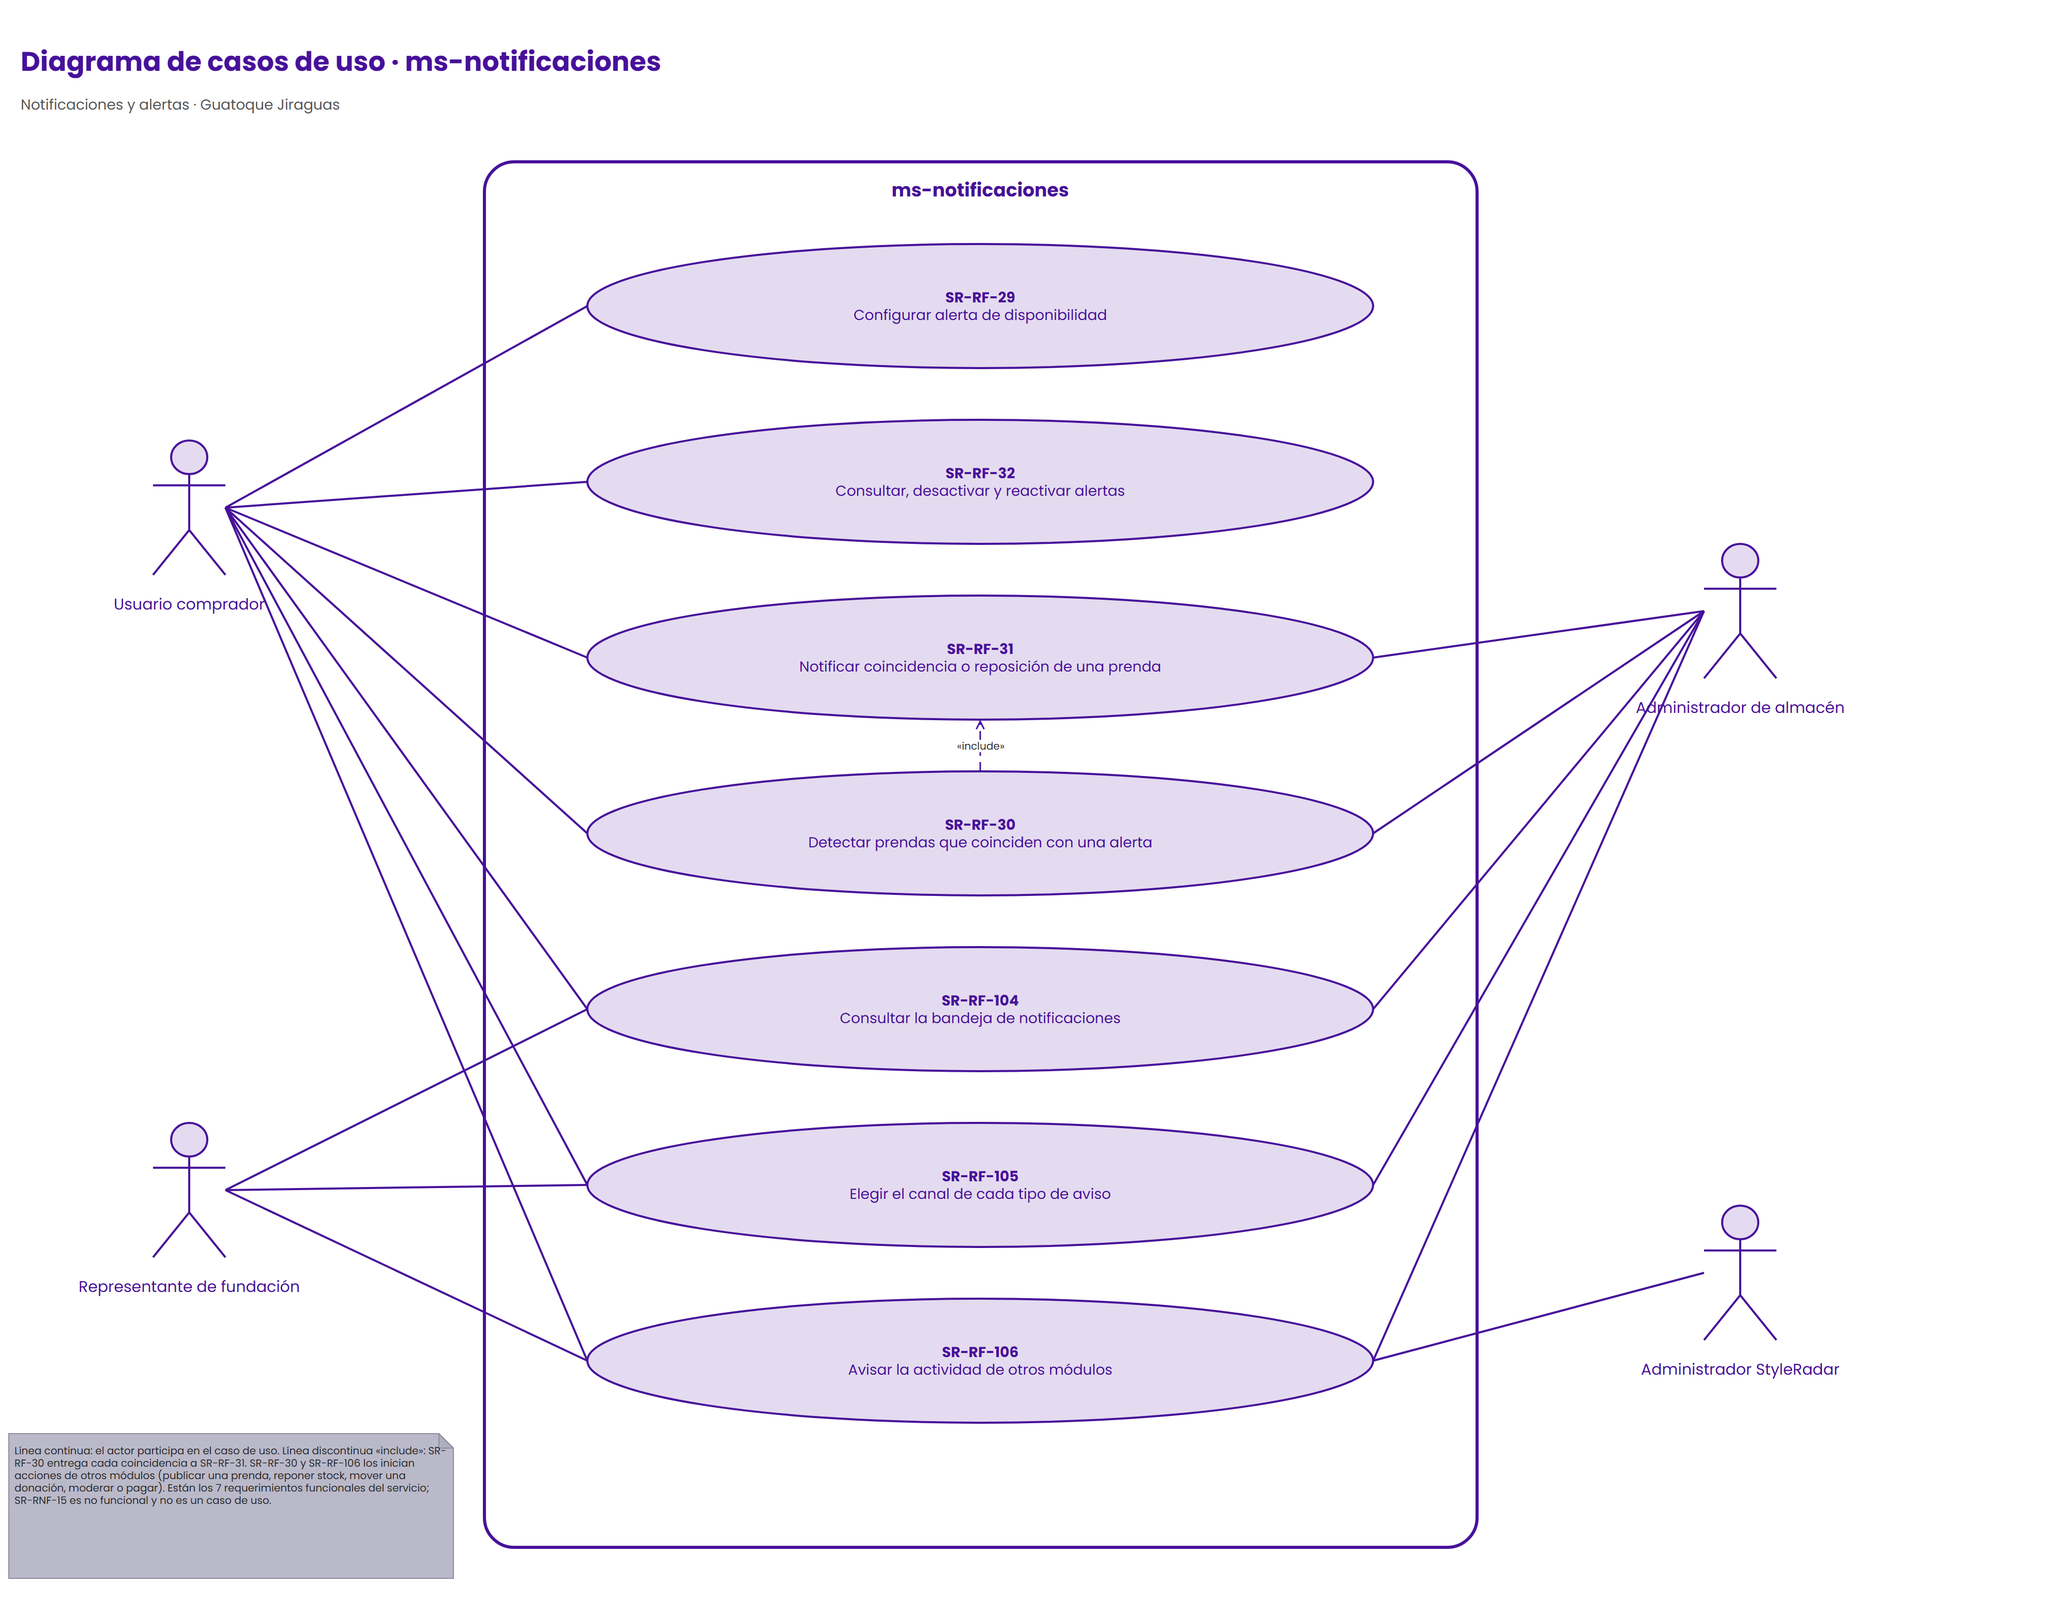
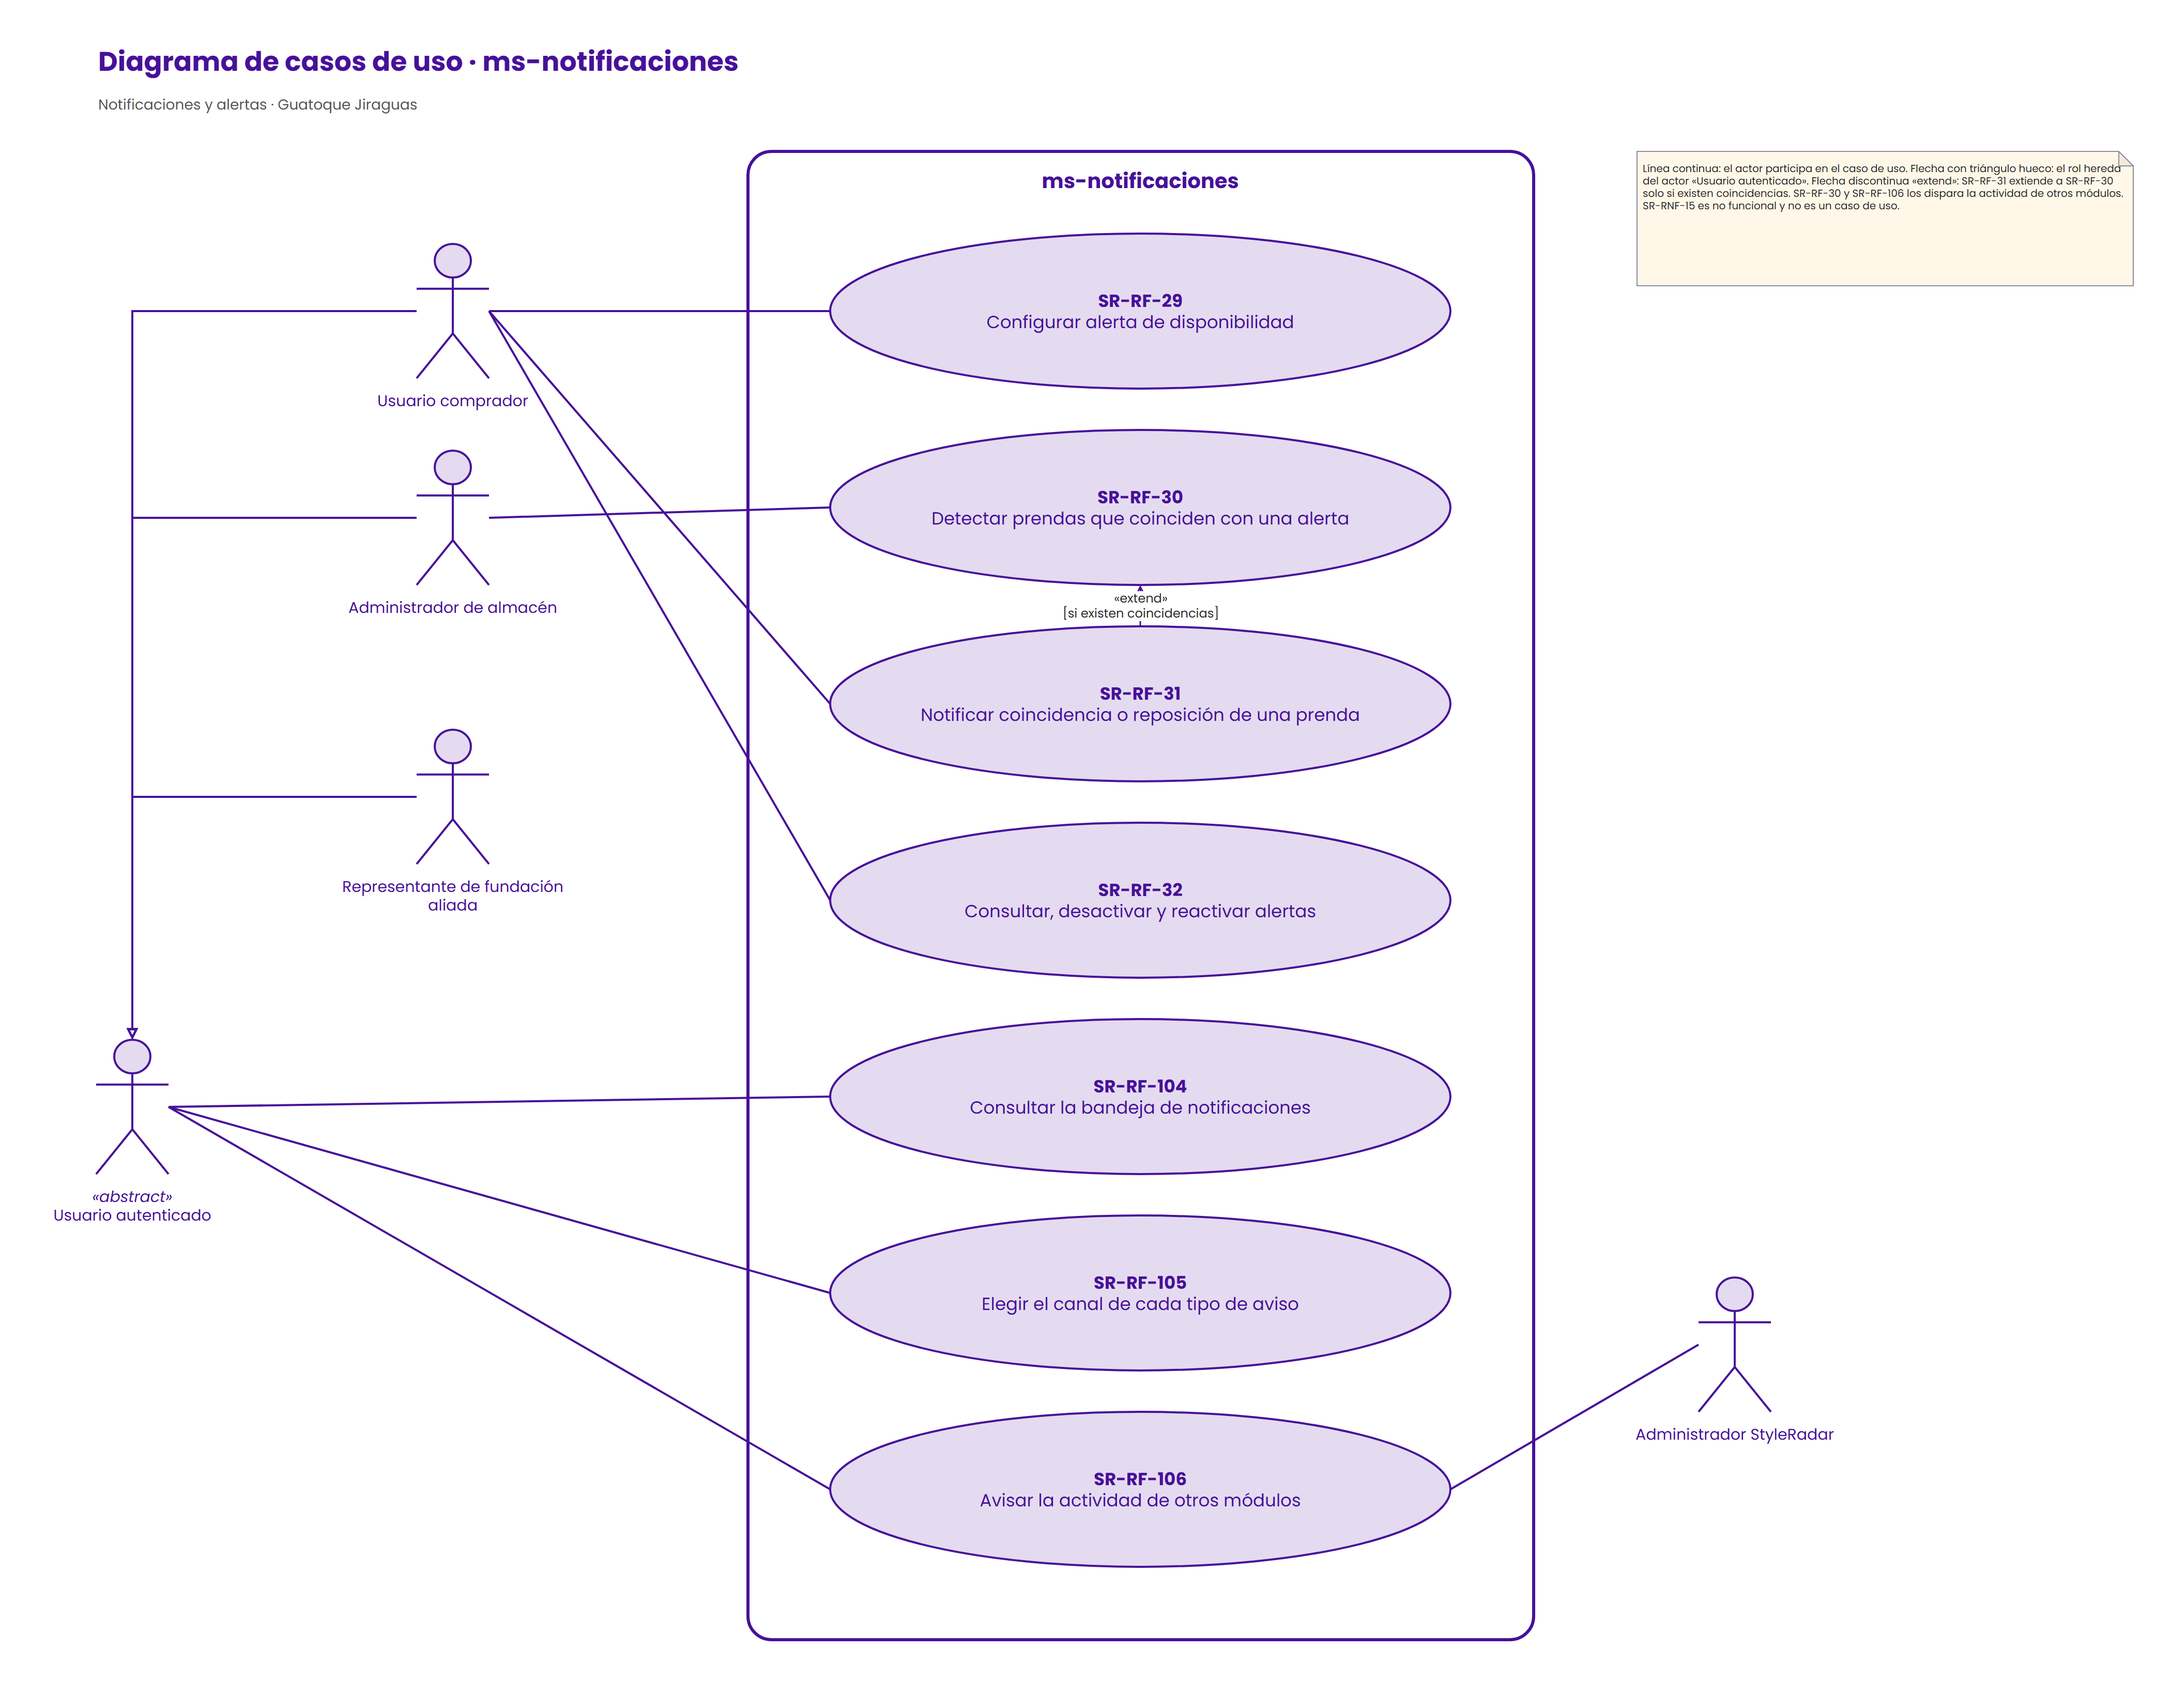
docs(diagramas): casos de uso con extend, actor abstracto y mejor lectura
SR-RF-31 extiende a SR-RF-30 solo si existen coincidencias; el usuario autenticado generaliza a los roles de SR-RF-104, 105 y 106; se quitan las lineas redundantes y los actores principales pasan a la izquierda.

diff --git a/docs/DIAGRAMAS_NOT20.md b/docs/DIAGRAMAS_NOT20.md
@@ -307,19 +307,19 @@ El diagrama muestra el backend completo de StyleRadar dentro de un recuadro punt
 
 ### 9.1. Explicación técnica
 
-Hay un diagrama de casos de uso por microservicio y este contiene todos los requerimientos funcionales de `ms-notificaciones`. El borde redondeado es el sistema, cada óvalo es un requerimiento (código y nombre) y las líneas unen cada caso de uso con los actores que participan.
+Hay un diagrama de casos de uso por microservicio y este contiene todos los requerimientos funcionales de `ms-notificaciones`. El borde redondeado es el sistema, cada óvalo es un requerimiento (código y nombre) y las líneas unen cada caso de uso con los actores que participan. Los actores principales van a la izquierda y el administrador StyleRadar, que origina eventos de moderación, a la derecha.
 
 | Requerimiento | Caso de uso | Actores |
 | :--- | :--- | :--- |
 | SR-RF-29 | Configurar alerta de disponibilidad | Usuario comprador |
-| SR-RF-30 | Detectar prendas que coinciden con una alerta | Administrador de almacén (lo inicia al publicar o reponer); usuario comprador (dueño de las alertas) |
-| SR-RF-31 | Notificar coincidencia o reposición de una prenda | Usuario comprador; administrador de almacén (vía SR-RF-30) |
+| SR-RF-30 | Detectar prendas que coinciden con una alerta | Administrador de almacén (lo inicia al publicar o reponer) |
+| SR-RF-31 | Notificar coincidencia o reposición de una prenda | Usuario comprador (extiende a SR-RF-30 si existen coincidencias) |
 | SR-RF-32 | Consultar, desactivar y reactivar alertas | Usuario comprador |
-| SR-RF-104 | Consultar la bandeja de notificaciones | Usuario comprador, administrador de almacén y representante de fundación |
-| SR-RF-105 | Elegir el canal de cada tipo de aviso | Usuario comprador, administrador de almacén y representante de fundación |
-| SR-RF-106 | Avisar la actividad de otros módulos | Usuario comprador, representante de fundación, administrador de almacén (reciben el aviso) y administrador StyleRadar (sus moderaciones generan avisos) |
+| SR-RF-104 | Consultar la bandeja de notificaciones | Usuario autenticado (usuario comprador, administrador de almacén y representante de fundación aliada) |
+| SR-RF-105 | Elegir el canal de cada tipo de aviso | Usuario autenticado (usuario comprador, administrador de almacén y representante de fundación aliada) |
+| SR-RF-106 | Avisar la actividad de otros módulos | Usuario autenticado (quien recibe el aviso) y administrador StyleRadar (sus moderaciones generan avisos) |
 
-La línea discontinua «include» de SR-RF-30 a SR-RF-31 indica que cada coincidencia detectada se entrega a la notificación. `SR-RNF-15` (resiliencia e idempotencia de los consumidores) es un requerimiento no funcional y por eso no es un caso de uso.
+`Usuario autenticado` es un actor abstracto: el usuario comprador, el administrador de almacén y el representante de fundación aliada heredan de él (flecha con triángulo hueco) y por eso comparten SR-RF-104, 105 y 106. La flecha discontinua «extend» de SR-RF-31 a SR-RF-30 indica que la notificación solo ocurre si existen coincidencias. `SR-RNF-15` (resiliencia e idempotencia de los consumidores) es un requerimiento no funcional y por eso no es un caso de uso.
 
 ### 9.2. Justificación arquitectónica
 

diff --git a/docs/readme/03-arquitectura-hexagonal.md b/docs/readme/03-arquitectura-hexagonal.md
@@ -191,7 +191,7 @@ flowchart LR
 #### 8. Diagrama de Casos de Uso (ms-notificaciones)
 * **Archivo Editable Draw.io:** [`docs/uml/diagrama-casos-de-uso.drawio`](../uml/diagrama-casos-de-uso.drawio)
 * **Documentacion y Justificacion Tecnica:** [docs/DIAGRAMAS_NOT20.md (Seccion 9)](../DIAGRAMAS_NOT20.md#9-diagrama-de-casos-de-uso)
-* **Descripcion:** Un diagrama por microservicio con todos los requerimientos funcionales de `ms-notificaciones` (SR-RF-29, 30, 31, 32, 104, 105 y 106) y sus actores: usuario comprador, administrador de almacen, representante de fundacion y administrador StyleRadar.
+* **Descripcion:** Un diagrama por microservicio con todos los requerimientos funcionales de `ms-notificaciones` (SR-RF-29, 30, 31, 32, 104, 105 y 106) y sus actores: usuario comprador, administrador de almacen, representante de fundacion aliada, administrador StyleRadar y el actor abstracto usuario autenticado.
 
 <p align="center">
   <a href="../images/diagrama-casos-de-uso.png" target="_blank">
